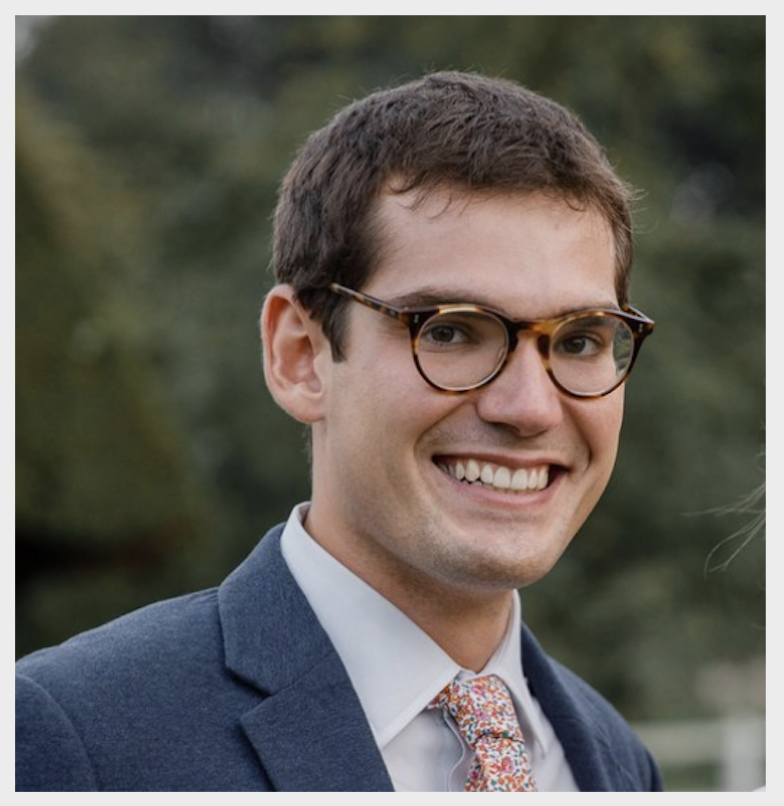
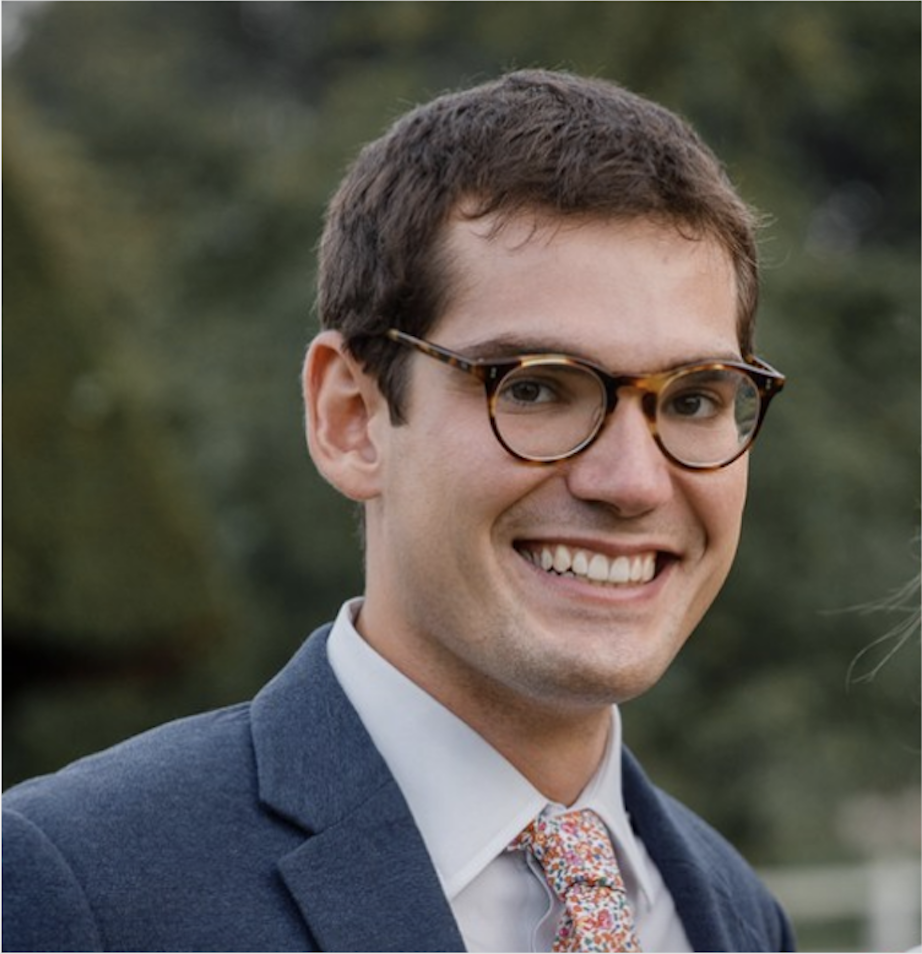
Add padding to images.

diff --git a/_layouts/home.html b/_layouts/home.html
@@ -4,5 +4,5 @@ layout: default
 
 <div class="home">
   <h1 class="page-heading"></h1>
-  <img src="https://bandang0.github.io/rduqueonline/img/photoofme.png" style="height: auto; width:40%;" align="left"/>{{ content }}
+  <img src="https://bandang0.github.io/rduqueonline/img/photoofme.png" style="height: auto; width:40%; padding: 10px" align="left"/>{{ content }}
 </div>

diff --git a/projects.md b/projects.md
@@ -7,11 +7,7 @@ showhead: true
 
 ### AstroReduce
 
-[AstroReduce](https://github.com/bandang0/astro_reduce) is a simple astronomical image reduction program commissioned by the Observatoire de Paris for fast and straightforward reduction of series of images during pedagogical observing sessions at the Observatoire de Haute-Provence. In addition to reducing stacks of astronomical images, AstroReduce interfaces with the [Astromatic](https://github.com/astromatic) software suite for rapid source extraction, photometry and astrometry. It is under continuous development, do contact me to contribute!
-
-Sample output:
-
-<img src="https://bandang0.github.io/rduqueonline/img/astro_reduce.png" style="height: auto; width:50%" align="left"/>
+<img src="https://bandang0.github.io/rduqueonline/img/astro_reduce.png" style="height: auto; width:50%; padding: 15px;" align="left"/> [AstroReduce](https://github.com/bandang0/astro_reduce) is a simple astronomical image reduction program commissioned by the Observatoire de Paris for fast and straightforward reduction of series of images during pedagogical observing sessions at the Observatoire de Haute-Provence. In addition to reducing stacks of astronomical images, AstroReduce interfaces with the [Astromatic](https://github.com/astromatic) software suite for rapid source extraction, photometry and astrometry. It is under continuous development, do contact me to contribute!
 
 ### The Automatic Astrophysical Model Generator (AAMG)
 
